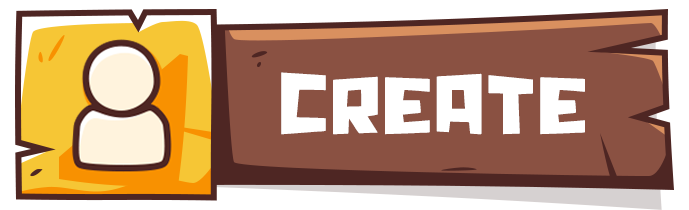
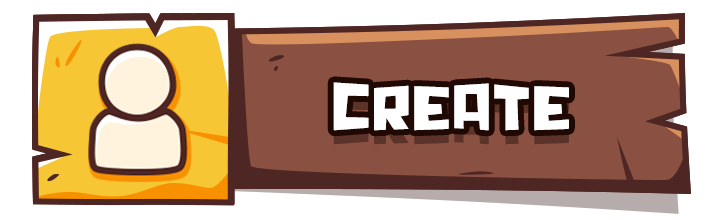
Adding Correct Buttons with Incorrect Designs... Sigh

diff --git a/src/elements/index.jsx b/src/elements/index.jsx
@@ -7,6 +7,7 @@ import mapNoBorders from '../../static/img/login/MapNoBorders.jpg';
 // import plate from '../../static/img/login/Aspect_Ratio_BG_Plate.png';
 import button from '../../static/img/login/Submit_Button.png';
 import button_hover from '../../static/img/login/Submit_Button_Hover.png';
+import logout_hover from '../../static/img/profile/Logout_Button_Hover.png';
 
 const Button = styled.button`
   background: linear-gradient(to bottom, #8f34d9, #44009e);
@@ -137,6 +138,62 @@ const BG_Image =  styled.div`
 `
 export { BG_Image };
 
+
+const BG_Image_Scroll = BG_Image.extend`
+  
+  -webkit-animation:100s scroll infinite linear;
+  -moz-animation:100s scroll infinite linear;
+  -o-animation:100s scroll infinite linear;
+  -ms-animation:100s scroll infinite linear;
+  animation:100s scroll infinite linear;
+
+  @-webkit-keyframes scroll{
+    100%{
+      background-position:2500px 0px;
+    }
+    50%{
+      background-position:2500px 0px;
+    }
+  }
+
+  @-moz-keyframes scroll{
+    100%{
+      background-position:2500px 0px;
+    }
+    50%{
+      background-position:2500px 0px;
+    }
+  }
+
+  @-o-keyframes scroll{
+    100%{
+      background-position:2500px 0px;
+    }
+    50%{
+      background-position:2500px 0px;
+    }
+  }
+
+  @-ms-keyframes scroll{
+    100%{
+      background-position:2500px 0px;
+    }
+    50%{
+      background-position:2500px 0px;
+    }
+  }
+
+  @keyframes scroll{
+    100%{
+      background-position:2500px 0px;
+    }
+    50%{
+      background-position:2500px 0px;
+    }
+  }
+`
+export { BG_Image_Scroll };
+
 const FormHint =  styled.div`
   color: #B22222;
   margin-bottom: 3vmin;
@@ -258,8 +315,25 @@ const FormBG = styled.div`
 export { FormBG };
 
 const LogoutButton = FormButton.extend`
-   margin: .5vmin auto;
-   height: 1vmin;
+  margin: 5vmin auto;
+  background-image: url(${props => props.img});
+  background-position: center center;
+  background-repeat: no-repeat;
+  background-size: contain;
+  cursor: pointer;
+  text-decoration: none;
+  margin-top: ${props => props.marginTop ? props.marginTop : '5vmin'};
+  background-color: Transparent;
+  box-sizing: border-box;
+  background-position: center center;
+  background-repeat: no-repeat;
+  background-size: contain;
+  transition: all .2s ease-in-out;
+
+  &:hover{
+    transform: scale(1.1);
+    background-image: url(${logout_hover});
+  }
 `
 
 export {LogoutButton};

diff --git a/src/blocks/GameLobby/index.jsx b/src/blocks/GameLobby/index.jsx
@@ -2,26 +2,48 @@ import React from 'react';
 import styled from 'styled-components';
 import PlayerArea from './PlayerArea.jsx';
 import img from '../../../static/img/gamelobby/BG.jpg';
-import plank from '../../../static/img/gamelobby/Aspect_Ratio_BG_Plate.png';
+import gameMenu from '../../../static/img/gamelobby/Aspect_Ratio_GameLobby.png';
 import { BG_Image_Scroll } from '../../elements';
 
 const GameArea = styled.div`
+  background-image: url(${props => props.img});
+  /* background: red; */
+  background-position: center center;
+  background-repeat: no-repeat;
+  background-size: contain;
+  /* border: 1px solid blue; */
+  font-size: 2vmin;
+  color: #280408;
+  margin: 5vmin auto;
+  padding-top: 4vmin;
+  padding-bottom: 5vmin;
   width: var(--width);
   height: var(--height);
-  background-image: url(${plank});
-  background-repeat: no-repeat;
-  background-position: center center;
-  background-size: contain;
-  margin: 0;
-  padding: 0;
-  text-align: center;
+  
+  display: flex;
+  flex-direction: column;
+  justify-content: center;
+  align-items: center;
+
+  h1{
+    margin: 2vmin;
+    font-weight: bold;
+  }
+
+  h2{
+    font-size: 3vmin;
+  }
+
+  @media only screen and (max-width: 670px) {
+    width: 90%;
+  }
 `
 
 const GameLobby = (props) => {
     return (
         <BG_Image_Scroll img={img}>       
-          <GameArea img={plank}>
-          <h1>GAME LOBBY</h1>
+          <GameArea img={gameMenu}>
+          <h1>Waiting for more players to join...</h1>
            <PlayerArea players={props.players} />
           </GameArea>
         </BG_Image_Scroll>

diff --git a/src/blocks/SignupForm/index.jsx b/src/blocks/SignupForm/index.jsx
@@ -7,11 +7,20 @@ import { BG_Image, FormLabel, FormButton, FormContainer, InputBox, FormBG, FormH
 
 import img from '../../../static/img/login/MapNoBorders.jpg';
 import plate from '../../../static/img/signup/AspectRatioSignup.png';
-import button from '../../../static/img/login/Submit_Button.png';
-import button_hover from '../../../static/img/login/Submit_Button.png';
+import button from '../../../static/img/signup/Create_Button.png';
+import button_hover from '../../../static/img/signup/Create_Button_Hover.png';
 
-const FormLabelSignup =  FormLabel.extend`
-  font-size:2vmin;
+const CreateButton =  FormButton.extend`
+  background-image: url(${button});
+  background-position: center center;
+  background-repeat: no-repeat;
+  background-size: contain;
+  transition: all .2s ease-in-out;
+
+  &:hover{
+    transform: scale(1.1);
+    background-image: url(${button_hover});
+  }
 `
 
 const BG_Image_Scroll = BG_Image.extend`
@@ -107,7 +116,7 @@ const SignupForm = function (props) {
               value= {props.password2} 
               onChange= {props.handleInputChange}
             />
-              <FormButton marginTop="1.5vmin" type="submit"></FormButton>
+              <CreateButton marginTop="1.5vmin" type="submit"></CreateButton>
           </form>
         </FormBG>
       </FormContainer>

diff --git a/src/blocks/Stats/index.jsx b/src/blocks/Stats/index.jsx
@@ -4,9 +4,11 @@ import styled from 'styled-components';
 
 import { BG_Image, LogoutButton } from '../../elements';
 import img from '../../../static/img/profile/MapBorders.jpg';
-import button from '../../../static/img/login/Submit_Button.png';
-import button_hover from '../../../static/img/login/Submit_Button_Hover.png';
+import button from '../../../static/img/profile/Join_Game_Button.png';
+import button_hover from '../../../static/img/profile/Join_Game_Button_Hover.png';
 import plate from '../../../static/img/profile/AspectRatioProfile.png';
+import logout from '../../../static/img/profile/Logout_Button.png';
+import logout_hover from '../../../static/img/profile/Logout_Button_Hover.png';
 
 
 const ScoreLabel = styled.label`
@@ -94,7 +96,7 @@ export default function Stats(props) {
       <BG_Image img={img}>
         <ProfileContainer>
           <Profile>
-            <LogoutButton onClick={props.handleLogout}></LogoutButton>
+            <LogoutButton img={logout} onClick={props.handleLogout}></LogoutButton>
             <form onSubmit= {props.handleSubmit}>
               <ProfileLabel>{props.user.username}'s Profile</ProfileLabel>
               <ScoreCard>

diff --git a/src/container/Game.jsx b/src/container/Game.jsx
@@ -163,10 +163,7 @@ export default class Game extends React.Component {
 
     render() {
         return(
-            <div>
-                <h1>{this.state.gameName}</h1>
-                <h2>ID: {this.state.gameID} </h2>
-                    
+            <div>   
                 <GameLobby players={this.state.players} />
 
                 <Button onClick={this.startGame}>Start</Button>
@@ -177,8 +174,7 @@ export default class Game extends React.Component {
                     messages={this.state.chat.messages} 
                     username={this.state.chat.username} 
                     value={this.state.chat.messageInput} 
-                />
-                              
+                />         
             </div>
         )
     }

diff --git a/src/blocks/GameLobby/Player.jsx b/src/blocks/GameLobby/Player.jsx
@@ -6,8 +6,8 @@ const Player = (props) => {
     return (
         <div>
             <div>
-                <div>{props.player.user_id}</div>
-                <div>{props.player.username}</div>
+                {/* <div>{props.player.user_id}</div> */}
+                <div><h2>{props.player.username}</h2></div>
             </div>
         </div>
     )
